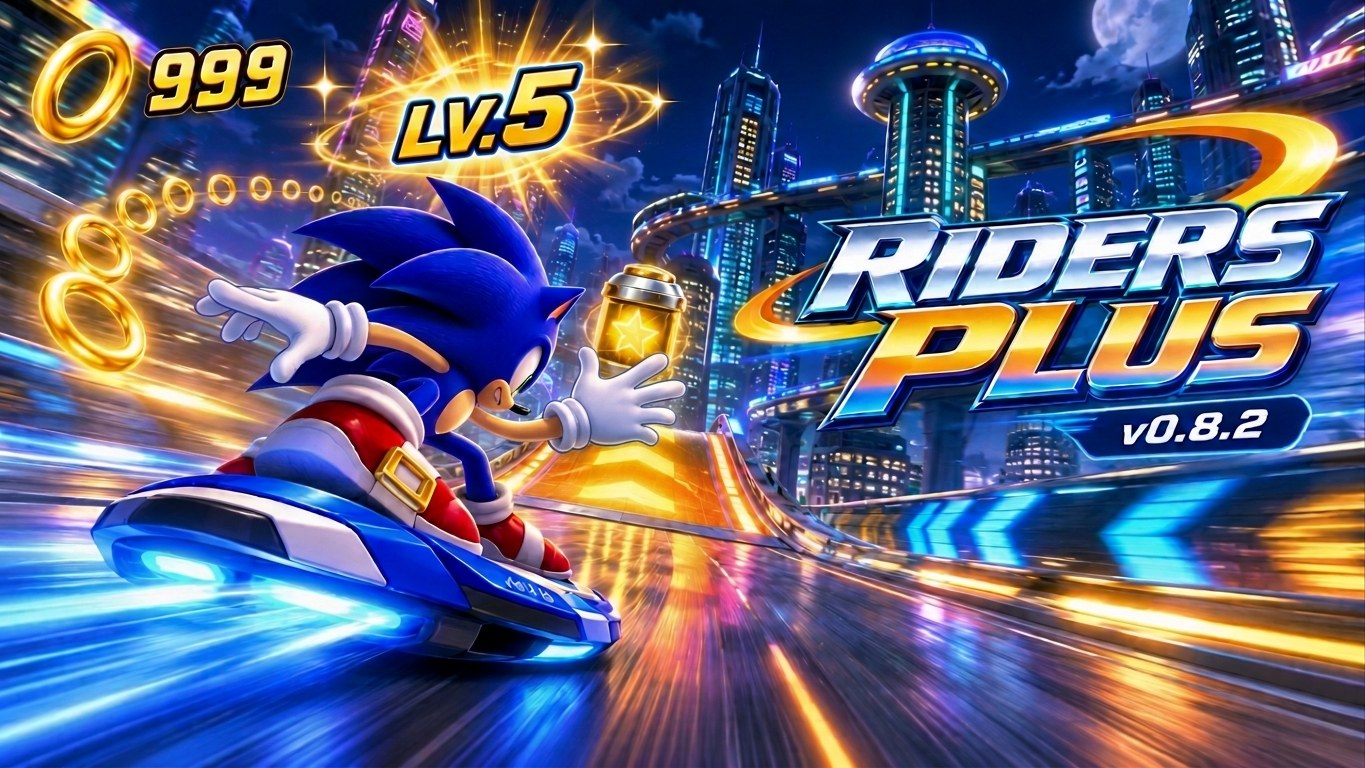
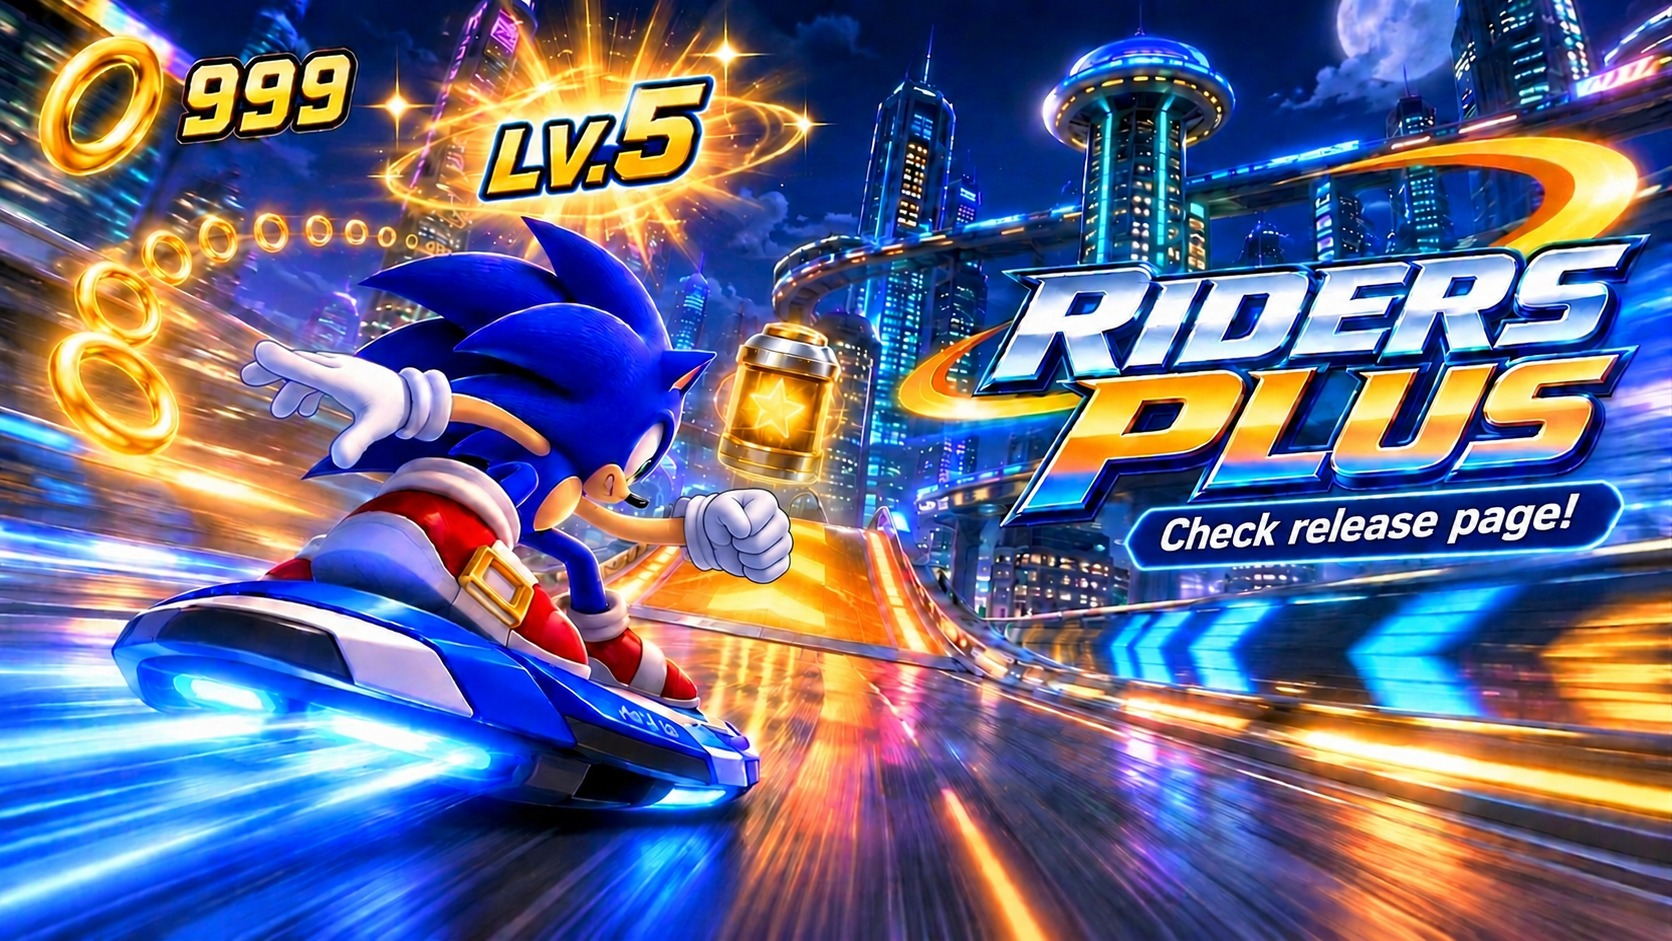
README: featured Riders Plus section
Under the intro: the Riders Plus banner (the user's ChatGPT art, now with Sonic's hand fixed; also replaces
the v0.8.2 banner), a rules table (original vs Riders Plus), Lv. 4 / Lv. 5, six 21:9 shots from the user's
recorded PC race (replayed at 3440x1440), redrawn speed charts (our own), what's next and picture credits.
The top banner is cropped thinner (1529x715) so all six characters stay in. Guard hashes updated (user's OK).

diff --git a/tools/check_no_game_data.py b/tools/check_no_game_data.py
@@ -50,7 +50,7 @@ HOME_OK = re.compile(r"(?i)(users[\\/](?:<[^>]+>|(?:you|name|username|me|public)
 # picture is refused until its SHA-1 is put here. Also the launcher banner (the user's OK, 2026-11-07): public
 # fan art the user chose, not from the game.
 OWN_ART = {
-    "docs/images/banner.jpg": "54c9de3ff1b1c31237fc9649449e1f4bdfae4f9b",  # README banner (fan art, user's choice, 2026-11-09)
+    "docs/images/banner.jpg": "1e6a2119f6276b1ecbed54a4c1b4c4bb9edef6b3",  # README banner (fan art, user's choice, 2026-11-09; cropped thinner 2026-11-16)
     "launcher/banner.jpg": "a1d51fb7890668be5dfd126311b946aec8744339",
     # README comparison screenshots, original vs this port (the user's OK, 2026-11-11): exactly these four
     "docs/images/compare/original-1.jpg": "4bd5401024ca6f240715dc878434d6d298f59421",
@@ -59,9 +59,16 @@ OWN_ART = {
     "docs/images/compare/recomp-2.jpg": "fcd82ec1a09589caf26a55fcaf501e0f7bd4cdde",
     "docs/images/settings-display.jpg": "c02503fd7d6f88b77049d5b695505cab0fc6bb7b",  # settings menu screenshot for the v0.8.0 notes (the user's OK, 2026-11-11)
     # v0.8.2 release notes (the user's OK, 2026-11-14): the user's ChatGPT banners and a PC race screenshot pair
-    "docs/images/v0.8.2/riders-plus-banner.jpg": "b7c437e2dd8aa0030d94f696c561ca1a454b883c",
+    "docs/images/v0.8.2/riders-plus-banner.jpg": "74a6b9d10125473c5be6130b8520b29aabc5c750",  # fixed hand (2026-11-16)
     "docs/images/v0.8.2/online-coming-soon.jpg": "2d581b0f9a375a972d77d26a7d870cfeade37af2",
     "docs/images/v0.8.2/riders-plus-lv5.jpg": "334b4f1100ec2981fd006e6ea71ffbc81046e2e1",
+    # README Riders Plus section (the user's OK, 2026-11-16): the user's recorded PC race, replayed at 21:9
+    "docs/images/riders-plus/lv4-level-up.jpg": "49e32a6731443637290c05c66091ecf539dfbbd5",
+    "docs/images/riders-plus/lv5-level-up.jpg": "e943e0f254e90fc9076ac0dedd5fbbde8db8b0c1",
+    "docs/images/riders-plus/gold-capsule-298.jpg": "785f018329aae3140b9fa36fadfc437808b482fb",
+    "docs/images/riders-plus/lv5-boost.jpg": "56cefaa56117aa79fc437d676cc7f10fe9287daa",
+    "docs/images/riders-plus/trick-rank-ss.jpg": "d8d432b8da8a8a35b25ecaf7131ad59e8620f533",
+    "docs/images/riders-plus/tunnel-294.jpg": "8ac53a61c267a2e2cbb103b35d38f4c7b229803d",
     "launcher/icon_256.png": "80541e60eb82d9440c001da3bc4c7240bda2b111",  # launcher icon (user's ChatGPT art, 2026-11-09)
     "launcher/icon_32.png": "24e3018e7e6651be4cbba8228f81364bf9d0a70e",
     "setup/icon.png": "b84f997daba5df2563d0c3526cf633aa87151ebf",  # game icon: cedry2kio's fan-made icon (user's OK, 2026-11-10; README credits)

diff --git a/README.md b/README.md
@@ -37,6 +37,68 @@ Play **Sonic Riders** (GameCube, USA) natively, with no emulator, on a modded **
 **Windows PC**, an **Android phone**, **Linux / Steam Deck** (new, untested on a Deck), or an **iPhone / iPad** (new, built on a Mac). The game is rebuilt on your own PC from **your own disc image**; this project contains
 no game files.
 
+## Riders Plus: Sonic Riders, turned up
+
+<p align="center">
+  <img src="docs/images/v0.8.2/riders-plus-banner.jpg" width="100%" alt="Sonic on the Blue Star racing through a neon city under the Riders Plus logo, with 999 rings and a Lv. 5 badge">
+</p>
+
+**Riders Plus** is our own take on the game's racing. It's built into this port and **on by default**. Every
+track, character and gear stays the same; the limits are what change. You get more rings, two more gear levels,
+and you keep your speed instead of losing it. Turn it off any time in **Settings > Gameplay > Riders Plus** for
+the original GameCube rules. Riders Plus and [online play](docs/ONLINE.md) are the two parts of this project
+we'll keep building on.
+
+| | Original game | Riders Plus |
+|---|---|---|
+| Ring limit | 100 | **999** (a hit or a fall still costs 100) |
+| Gear levels | Lv. 1-3 | **Lv. 4 at 200 rings, Lv. 5 at 350** |
+| Gold 100-ring capsule | Gone once taken | **Comes back after 25 seconds** |
+| Dash panels | Set you to the panel's speed, even if you were faster | **The panel's speed, or your speed + 25 km/h** |
+| Speed Shoes | Set you to 200 km/h | **Your speed + 80 km/h** (at least 200) |
+| Charging a jump | Slows you down at once | **Keeps your speed for 0.75 s** |
+
+<p align="center">
+  <img src="docs/images/riders-plus/lv4-level-up.jpg" width="49%" alt="LEVEL UP!! to Lv. 4 at 203 rings, Metal City, 250 km/h">
+  <img src="docs/images/riders-plus/lv5-level-up.jpg" width="49%" alt="LEVEL UP!! to Lv. 5 at 350 rings, Metal City">
+  <br><sub>LEVEL UP!! to Lv. 4 at 200 rings, and to Lv. 5 at 350</sub>
+</p>
+
+### Lv. 4 and Lv. 5
+
+Collect 200 rings for Lv. 4 and 350 for Lv. 5. You get the game's own LEVEL UP!! (sparkle, sound and a full air
+tank), and the HUD shows "Lv. 4" or "Lv. 5" in the game's own digits. Each gear keeps its own Lv. 1-3 stats and
+builds on its Lv. 3 numbers. Sonic's Blue Star goes from 180 / 250 km/h (top speed / boost) at Lv. 3 to 200 / 275
+at Lv. 4 and 215 / 300 at Lv. 5.
+
+<p align="center">
+  <img src="docs/images/gear-levels-chart.svg" width="49%" alt="Chart: Blue Star top speed and boost from Lv. 1 to Lv. 5">
+  <img src="docs/images/v0.8.2/charge-jump-chart.svg" width="49%" alt="Chart: speed while charging a jump, original vs Riders Plus">
+</p>
+
+### More rings, more speed
+
+<p align="center">
+  <img src="docs/images/riders-plus/gold-capsule-298.jpg" width="100%" alt="1st place at Lv. 5 with 402 rings, 298 km/h, a gold 100-ring capsule beside the track">
+  <br><sub>1st place, 402 rings, 298 km/h, with the gold 100-ring capsule back on the track</sub>
+</p>
+<p align="center">
+  <img src="docs/images/riders-plus/lv5-boost.jpg" width="49%" alt="Boosting at Lv. 5 with 433 rings, 293 km/h">
+  <img src="docs/images/riders-plus/tunnel-294.jpg" width="49%" alt="Metal City tunnel at 294 km/h">
+  <br>
+  <img src="docs/images/riders-plus/trick-rank-ss.jpg" width="49%" alt="Rank SS trick in Metal City">
+  <br><sub>Lv. 5 boosts at 293 and 294 km/h, and a Rank SS trick. All shots: a real race on PC, 21:9 (3440 x 1440)</sub>
+</p>
+
+### What's next
+
+Riders Plus gets new additions with each release. Next up: extra character slots for mod characters, custom music
+([#17](https://github.com/teclilla18/sonic-riders-recomp/discussions/17)) and a right-stick camera. Have an idea for
+it? [Tell us in Discussions](https://github.com/teclilla18/sonic-riders-recomp/discussions).
+
+<sub>Riders Plus banner: made by the project owner with ChatGPT. Race shots: this port on PC. Charts: our own, from
+measured PC races.</sub>
+
 **Original** (4:3)
 <a href="docs/images/compare/original-1.jpg"><img src="docs/images/compare/original-1.jpg" width="100%" alt="Metal City race start in the original game, 4:3 with black bars, 30 fps"></a>
 **This port** (PC, 21:9)
